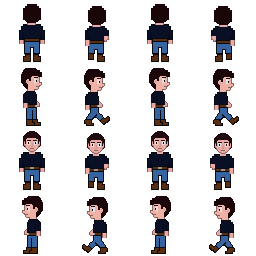
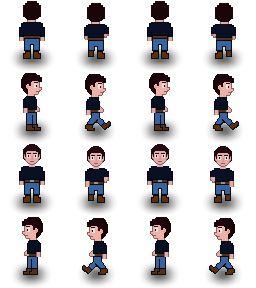
Pelaajien varjot ja pikselien viilailua

diff --git a/spritesheets.js b/spritesheets.js
@@ -1,10 +1,10 @@
 async function preLoadSpriteSheets() {
     const spritesheets = {
-        player1_normal: "./assets/players/player_shadows.png",
-        player1_lantern: "./assets/players/player_lantern_shadows.png",
+        player1_normal: "./assets/players/player.png",
+        player1_lantern: "./assets/players/player_lantern.png",
 
-        player2_normal: "./assets/players/player2_shadows.png",
-        player2_lantern: "./assets/players/player2_lantern_shadows.png",
+        player2_normal: "./assets/players/player2.png",
+        player2_lantern: "./assets/players/player2_lantern.png",
 
         zombie: "./assets/enemies/zombie_shadows.png",
         ghost: "./assets/ghost.png",

diff --git a/mobile.js b/mobile.js
@@ -3,7 +3,6 @@ import { globalPause, setGlobalPause } from "./main.js";
 import { showPauseMenu } from "./page.js";
 import { spriteSheets } from "./spritesheets.js";
 
-// TODO: Portrait mode -> landscape fiksaa nopeuden, miksi?
 // TODO: Firefoxilla pelaaja pysähtyy jos kävelee ja hipaisee jonnekkin muualle ruutuun
 
 export let isMobile = false;

diff --git a/player.js b/player.js
@@ -75,7 +75,7 @@ class Player
         this.lanternSprite = lanternSprite;
         this.spriteSheet.src = this.normalSprite;
         this.frameWidth = 256/4;
-        this.frameHeight = 256/4;
+        this.frameHeight = 288/4;
         this.totalFrames = 4;
         this.currentFrame = 0;
         this.animationSpeed = 150;

diff --git a/Näyttö_TODO.md b/Näyttö_TODO.md
@@ -1,11 +1,15 @@
-#TODO
+# TODO
 
-###Mobiili-supportti yksinpeli-modelle(Tommi)
+### Mobiili-supportti yksinpeli-modelle(Tommi)
+- Kameran toiminta mobiilille :white_check_mark:
+- Controlleri :white_check_mark:
 - Style/CSS/Canvas
-- Controlleri
-- ...
+  - Canvaksen koko responsiiviseksi :white_check_mark:
+  - Valikoiden sovittaminen mobiilille 
+  - How To Playn sovittaminen ja sektiointi mobiilille
+  - 
 
-###Paikallinen kaksinpeli-mode(Tomi)
+### Paikallinen kaksinpeli-mode(Tomi)
 - GameStateen säännöt miten peli etenee jos toinen pelaajista kuolee jne. :white_check_mark:
 - Oma leveli :white_check_mark:
 - Vihollisten spawnaus :white_check_mark:
@@ -21,23 +25,23 @@
 - Teksti-partikkeli powerupeille :white_check_mark:
 - How To Play: Kakkospelaajan näppis bindit :white_check_mark:
 
-###Optimointi
+### Optimointi
 - Voidaanko vielä nopeuttaa renderöintiä? :white_check_mark:
   - Offscreen bufferi seinille :white_check_mark:
   - Offscreen bufferi powerupeille :white_check_mark:
 
-###Bugeja
+### Bugeja
 - Canvas API ryhmätyöstä jääneiden bugien korjauksia
   - Cage ei enää aina pelaa jostain syystä
   - "Vilkku" jää joskus päälle, kun vaihtaa modea :white_check_mark:
   - DeltaTime pelaajan liikuttelussa :white_check_mark:
 
-###Spritet/Animaatiot
+### Spritet/Animaatiot
 - CC-BY Lisenssillä olevat spritet uusiksi
   - Kummitus
   - Luuranko
 - Korvataan score-spritet teksti partikkeleilla :white_check_mark:
 - Kakkospelaajalle sprite :white_check_mark:
 
-###Muuta
+### Muuta
 - MIT-lisenssi
